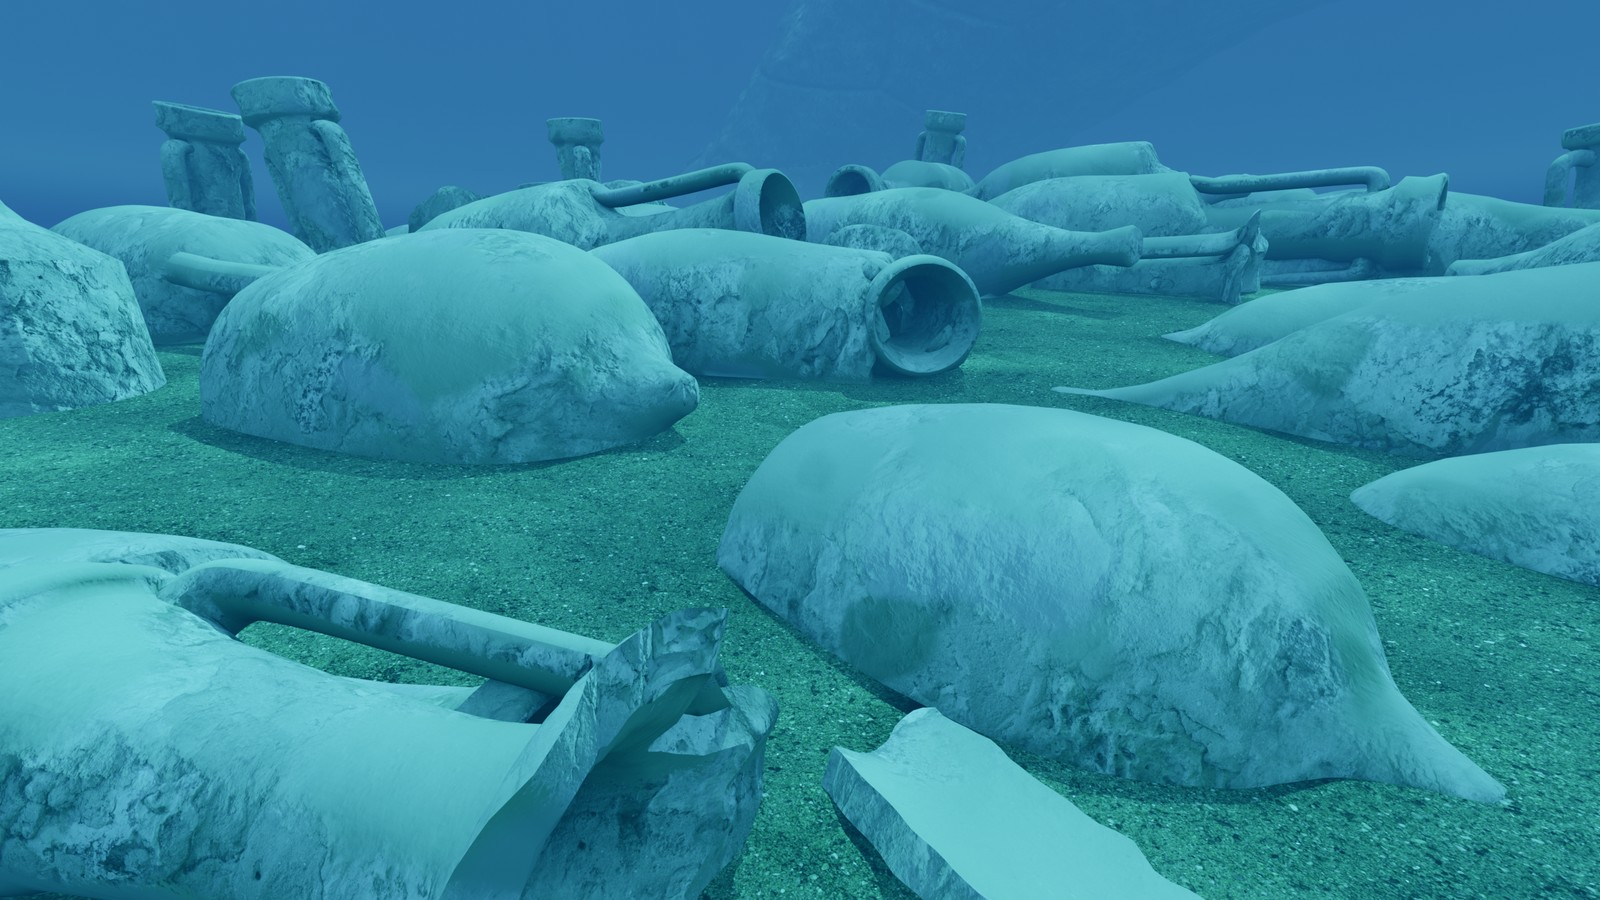
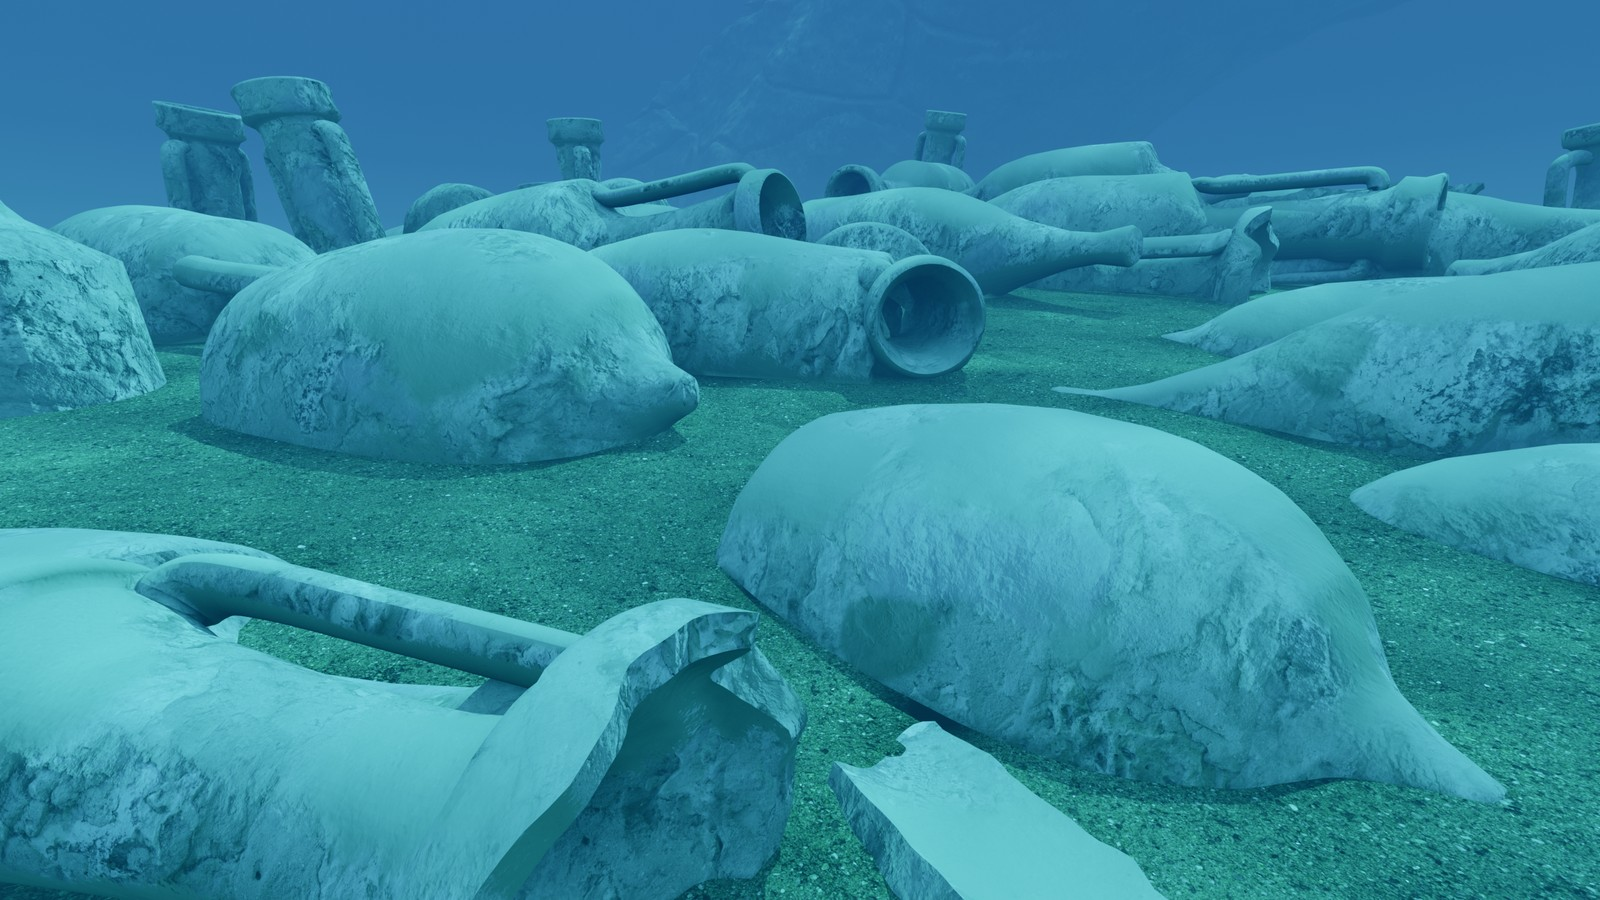
Koy A7: bağımsız gözden geçirmenin 11 bulgusu düzeltildi
Işık alanı dibine yaklaşınca sönüyordu (dibin altındaki düzlem sıfırdı; 12,6 m'de
ışığın %15'i): düzlemler son aydınlık değeri alıyor, bakış yolu geçişi tarlanın
zeminini yutmuyor. Kulp uçları duvarın içinde, incelen ve kapalı; boyun parçasının
kırığı kulp ayaklarının altında; yarım gövde ve parçacıklar en alçak köşelerine
göre kumda. Kemerde oluk düzlem başına (basamak yok), dar bant payı eğime ve
kabartmaya göre, bloklar ayaklara yakın. Canlı lekeler kabukta. Ortam kararmasında
sıra bozulursa o ağ kapalı. README'de ölçülen uçlar, bayat belge satırları güncel.
Galeri ve README görselleri yeniden. Ayrıntı docs/koy/DURUM.md A7.

Claude-Session: https://claude.ai/code/session_018YpimTqWS6UB1M8B7A4dW9

diff --git a/src/scenes/koy/koy_amphora.cpp b/src/scenes/koy/koy_amphora.cpp
@@ -41,10 +41,12 @@ const Row kL2[] = {{0.0f, 0.00f, -1}, {0.5f, 2.16f, -1}, {3.7f, 3.90f, -1}, {6.0
                    {84.9f, 7.96f, 6.69f}, {85.5f, 7.28f, 7.28f}};
 // handle centre lines (radius, height) in cm: inside the neck under the rim, out, down the free part (between the
 // handle's outer and inner edges of §2.5), into the shoulder
-const float2 h1B[] = {{5.0f, 107.8f}, {7.5f, 108.2f}, {9.6f, 107.0f}, {10.05f, 103.0f}, {10.1f, 95.0f}, {10.1f, 87.0f}, {10.2f, 81.0f}, {10.9f, 77.6f}, {11.4f, 75.4f}};
-const float2 h1A[] = {{4.8f, 91.5f}, {7.0f, 92.3f}, {8.9f, 91.2f}, {9.35f, 87.5f}, {9.3f, 78.0f}, {9.4f, 68.0f}, {9.6f, 62.5f}, {10.6f, 60.0f}, {11.4f, 59.0f}};
-const float2 h24[] = {{4.5f, 90.0f}, {7.5f, 90.6f}, {9.9f, 89.0f}, {10.2f, 86.0f}, {9.7f, 81.0f}, {9.3f, 75.5f}, {9.4f, 72.5f}, {9.9f, 70.6f}, {10.0f, 69.9f}};
-const float2 hL2[] = {{4.6f, 78.0f}, {8.0f, 79.0f}, {10.8f, 78.0f}, {11.4f, 75.0f}, {11.4f, 68.0f}, {11.4f, 61.5f}, {12.0f, 58.5f}, {12.2f, 56.6f}};
+// (both ends inside the wall, between the cavity's and the outside's radius at that height: the tapered, capped ends
+// are buried; first written with the lower ends 0.8-1.5 cm outside the shoulder and two upper ends in the mouth's cavity)
+const float2 h1B[] = {{5.9f, 107.8f}, {7.5f, 108.2f}, {9.6f, 107.0f}, {10.05f, 103.0f}, {10.1f, 95.0f}, {10.1f, 87.0f}, {10.2f, 81.0f}, {10.9f, 77.6f}, {10.9f, 75.0f}};
+const float2 h1A[] = {{6.3f, 91.5f}, {7.4f, 92.3f}, {8.9f, 91.2f}, {9.35f, 87.5f}, {9.3f, 78.0f}, {9.4f, 68.0f}, {9.6f, 62.5f}, {10.6f, 60.0f}, {11.0f, 58.8f}};
+const float2 h24[] = {{5.8f, 90.0f}, {7.6f, 90.6f}, {9.9f, 89.0f}, {10.2f, 86.0f}, {9.7f, 81.0f}, {9.3f, 75.5f}, {9.4f, 72.5f}, {9.5f, 70.8f}, {8.6f, 69.6f}};
+const float2 hL2[] = {{4.8f, 78.0f}, {8.0f, 79.0f}, {10.8f, 78.0f}, {11.4f, 75.0f}, {11.4f, 68.0f}, {11.4f, 61.5f}, {11.6f, 58.4f}, {10.3f, 56.3f}};
 
 template <size_t N, size_t H>
 KoyAmphoraType makeType(const char* name, const Row (&rows)[N], const float2 (&hp)[H], float hr, float ht, bool dbl, float fill) {
@@ -115,7 +117,7 @@ void lathe(KMeshCPU& m, const std::vector<float2>& prof, int S, bool facingAxis,
 int koyAmphoraTypes() { return int(sizeof(kTypes) / sizeof(kTypes[0])); }
 const KoyAmphoraType& koyAmphoraType(int k) { return kTypes[std::min(std::max(k, 0), koyAmphoraTypes() - 1)]; }
 
-KMeshCPU koyBuildAmphora(const KoyAmphoraType& t, int segments, unsigned int material, unsigned int id) {
+KMeshCPU koyBuildAmphora(const KoyAmphoraType& t, int segments, unsigned int material, unsigned int id, bool handles) {
     KMeshCPU m;
     m.name = t.name;
     m.material = material;
@@ -151,6 +153,7 @@ KMeshCPU koyBuildAmphora(const KoyAmphoraType& t, int segments, unsigned int mat
     }
     // two handles: a section swept along the centre line (Catmull-Rom between its points), elliptic (radial x
     // tangential), or two round rods side by side for the bifid Dressel 2-4 handle; their ends sink into the jar
+    if (!handles) return m;
     const int HC = 12;
     auto curve = [&](float u) {   // u in 0..1 along the centre line
         const int n = int(t.handle.size());
@@ -172,15 +175,18 @@ KMeshCPU koyBuildAmphora(const KoyAmphoraType& t, int segments, unsigned int mat
             const float halfR = 0.5f * t.handleR, halfT = t.doubleRod ? 0.5f * t.handleR : 0.5f * t.handleT;
             const float shift = t.doubleRod ? (rod == 0 ? -1.0f : 1.0f) * (0.5f * t.handleT - halfT) : 0.0f;
             const unsigned base = unsigned(m.pos.size());
+            const unsigned firstRing = unsigned(m.pos.size());
             for (int i = 0; i <= HS; ++i) {
                 const float u = float(i) / HS;
+                // the section narrows to 65 % towards both ends (they merge into the wall instead of standing out of it)
+                const float taper = 1.0f - 0.35f * kn::smoothstep(0.85f, 1.0f, u) - 0.35f * (1.0f - kn::smoothstep(0.0f, 0.15f, u));
                 const float2 p = curve(u), q = curve(std::min(u + 0.01f, 1.0f)), o = curve(std::max(u - 0.01f, 0.0f));
                 const float dr = q.x - o.x, dh = q.y - o.y, L = std::max(std::hypot(dr, dh), 1e-6f);
                 const float3 T = make_float3(out.x * dr / L, dh / L, out.z * dr / L);   // along the handle
                 const float3 Nn = normalize(cross(tan, T));                                 // radial-ish, in the profile plane
                 for (int c = 0; c <= HC; ++c) {
                     const float ph = twoPi * float(c) / float(HC);
-                    const float3 dir = Nn * (halfR * std::cos(ph)) + tan * (halfT * std::sin(ph) + shift);
+                    const float3 dir = Nn * (taper * halfR * std::cos(ph)) + tan * (taper * halfT * std::sin(ph) + shift);
                     const float3 nrm = normalize(Nn * (std::cos(ph) / halfR) + tan * (std::sin(ph) / halfT));
                     m.pos.push_back(make_float3(out.x * p.x, p.y, out.z * p.x) + dir);
                     m.nrm.push_back(nrm);
@@ -193,6 +199,19 @@ KMeshCPU koyBuildAmphora(const KoyAmphoraType& t, int segments, unsigned int mat
                     m.idx.push_back(make_uint3(a, cc, b));
                     m.idx.push_back(make_uint3(b, cc, d));
                 }
+            // caps on both ends: no open tube ever shows
+            for (int end = 0; end < 2; ++end) {
+                const unsigned ring = firstRing + unsigned(end == 0 ? 0 : HS * (HC + 1));
+                float3 ctr = make_float3(0.0f, 0.0f, 0.0f);
+                for (int c = 0; c < HC; ++c) ctr = ctr + m.pos[ring + unsigned(c)];
+                ctr = ctr * (1.0f / float(HC));
+                const float3 along = m.pos[ring + unsigned(end == 0 ? HC + 1 : 0) + 0u] - m.pos[ring];   // towards the tube's inside
+                const unsigned ci = unsigned(m.pos.size());
+                m.pos.push_back(ctr);
+                m.nrm.push_back(normalize(end == 0 ? -along : along));
+                m.uv.push_back(make_float2(0.0f, end == 0 ? 0.0f : 0.6f));
+                for (int c = 0; c < HC; ++c) m.idx.push_back(make_uint3(ci, ring + unsigned(c), ring + unsigned(c + 1)));
+            }
         }
     }
     return m;
@@ -256,9 +275,9 @@ std::vector<KoyAmphoraPiece> koyAmphoraPieces() {
     v.push_back({0, 1, 0.0f, 0.76f, 0.0f, twoPi, 0.05f, 12u});    // body broken through the shoulder
     v.push_back({1, 1, 0.0f, 0.66f, 0.0f, twoPi, 0.04f, 13u});    // a Dressel 1A body
     v.push_back({2, 1, 0.0f, 0.62f, 0.0f, twoPi, 0.04f, 14u});    // a Lamboglia 2 body
-    v.push_back({0, 2, sh - 0.04f, top, 0.0f, twoPi, 0.03f, 21u});   // a Dressel 1B neck with its handles
-    v.push_back({1, 2, 0.585f, 0.978f, 0.0f, twoPi, 0.03f, 22u});    // a Dressel 1A neck
-    v.push_back({0, 3, 0.18f, 0.74f, -0.15f, pi + 0.2f, 0.05f, 31u});    // half bodies
+    v.push_back({0, 2, sh - 0.09f, top, 0.0f, twoPi, 0.03f, 21u});   // a Dressel 1B neck with its handles (broken below their feet)
+    v.push_back({1, 2, 0.55f, 0.978f, 0.0f, twoPi, 0.03f, 22u});     // a Dressel 1A neck
+    v.push_back({0, 3, 0.24f, 0.74f, -0.15f, pi + 0.2f, 0.05f, 31u});    // half bodies (above the solid toe: the break shows the wall)
     v.push_back({0, 3, 0.26f, 0.70f, 0.3f, pi + 0.1f, 0.06f, 32u});
     v.push_back({0, 4, 0.40f, 0.62f, 0.0f, 0.9f, 0.03f, 41u});   // sherds: hand-sized pieces of the wall
     v.push_back({0, 4, 0.30f, 0.46f, 1.0f, 1.65f, 0.025f, 42u});
@@ -409,8 +428,8 @@ KMeshCPU koyBuildPiece(const KoyAmphoraPiece& pc, int segments, unsigned int mat
     // a neck keeps its handles: the whole jar's, cut to the piece's heights by taking only those inside it
     if (pc.kind == 2) {
         KMeshCPU whole = koyBuildAmphora(t, segments, material, id);
-        // the handles are the whole jar's last vertices: everything after its lathe, rim, cavity and fill
-        const size_t handleStart = whole.pos.size() - size_t((t.doubleRod ? 4 : 2) * 41 * 13);
+        // the handles are the whole jar's last vertices: everything after the body built without them
+        const size_t handleStart = koyBuildAmphora(t, segments, material, id, false).pos.size();
         const unsigned off = unsigned(m.pos.size());
         for (size_t v = handleStart; v < whole.pos.size(); ++v) {
             m.pos.push_back(whole.pos[v]);
@@ -432,6 +451,15 @@ KMeshCPU koyBuildPiece(const KoyAmphoraPiece& pc, int segments, unsigned int mat
 std::vector<KoyAmphoraPlacement> koyPlaceAmphorae(const Config& cfg, const std::function<float(float, float)>& floorY) {
     std::vector<KoyAmphoraPlacement> out;
     const std::vector<KoyAmphoraPiece> pieces = koyAmphoraPieces();
+    // the shells and sherds are placed by their own lowest point (their mesh's vertices): their edges touch the sand
+    std::vector<std::vector<float3>> verts(pieces.size());
+    for (size_t i = 0; i < pieces.size(); ++i)
+        if (pieces[i].kind >= 3) verts[i] = koyBuildPiece(pieces[i], 48, 0, 0).pos;
+    auto lowest = [&](int piece, float3 rx, float3 ax, float3 rz) {   // the lowest vertex's height over the piece's origin
+        float lo = 1e9f;
+        for (const float3& v : verts[size_t(piece)]) lo = std::min(lo, rx.y * v.x + ax.y * v.y + rz.y * v.z);
+        return lo;
+    };
     const int n = cfg.i("amfora.count", 96), nSherds = cfg.i("amfora.sherds", 40);
     const float3 c = cfg.v3("amfora.centre", make_float3(0.0f, 0.0f, 0.0f));
     const float ship = cfg.f("amfora.ship_deg", -75.0f) * 3.14159265f / 180.0f;
@@ -529,7 +557,9 @@ std::vector<KoyAmphoraPlacement> koyPlaceAmphorae(const Config& cfg, const std::
             centre = make_float3(px, fy - shoulder * (0.75f + 0.25f * uni(rng)) + ax.y * mid, pz);
             burial = 0.9f;
         } else if (PC.kind == 3) {
-            centre = make_float3(px, fy + rmax * (0.25f - 0.5f * burial), pz);   // a shell: its edges in the sand
+            // a shell: its lowest point (an edge, or its back) a few cm in the sand
+            const float sink = 0.01f + 0.04f * burial;
+            centre = make_float3(px, fy - sink - lowest(piece, rx, ax, rz) + ax.y * mid, pz);
         } else {
             centre = make_float3(px, fy + rmax * (1.0f - 2.0f * burial) * 0.98f, pz);
         }
@@ -560,7 +590,8 @@ std::vector<KoyAmphoraPlacement> koyPlaceAmphorae(const Config& cfg, const std::
         const float fy = floorY(px, pz);
         // the sherd's middle point sits at the floor: its offset from the axis is r along the rolled normal
         const float3 outward = rx * std::cos(am) + rz * std::sin(am);
-        const float3 tip = make_float3(px, fy + 0.01f - 0.03f * uni(rng), pz) - ax * mid - outward * r;
+        float3 tip = make_float3(px, 0.0f, pz) - ax * mid - outward * r;
+        tip.y = fy - (0.005f + 0.02f * uni(rng)) - lowest(piece, rx, ax, rz);   // its lowest point just in the sand
         const Cap me{make_float3(px, fy, pz), make_float3(px, fy + 0.01f, pz), 0.10f};
         bool clash = false;
         for (const Cap& o : caps)

diff --git a/src/scenes/koy/koy_arch.cpp b/src/scenes/koy/koy_arch.cpp
@@ -97,7 +97,8 @@ static float baseSdf(const KoyArchShape& a, float x, float y, float z) {
     // fallen blocks: rough spheres about the feet, half sunk
     for (int b = 0; b < a.blocks; ++b) {
         const float hx = kn::hash01(b, int(a.seed), 21), hz = kn::hash01(b, int(a.seed), 22), hr = kn::hash01(b, int(a.seed), 23);
-        const float bx = (hx - 0.5f) * 2.0f * (w + 6.0f), bz = (hz - 0.5f) * 2.0f * (a.footD + 6.0f) * (hz < 0.5f ? 1.0f : 0.7f);
+        // about the feet only (behind the arch the floor falls away to the deep: a block there would hang in the water)
+        const float bx = (hx - 0.5f) * 2.0f * (w + 4.0f), bz = (hz - 0.5f) * 2.0f * (a.footD + 2.5f);
         if (std::fabs(bz) < a.footD + 0.5f && std::fabs(bx) < w - a.footR) continue;   // not under the span itself
         const float br = 0.7f + 1.6f * hr;
         const float dx = x - bx, dy = y - 0.25f * br, dz = z - bz;
@@ -136,8 +137,9 @@ float KoyArchShape::sdf(float3 world) const {
     const float hl = kn::hash01(layer, int(seed), 11);
     const float step = hl > 0.62f ? bedStep * (hl - 0.62f) / 0.38f * 2.0f : 0.0f;   // a protruding ledge, some beds only
     d -= patch * step * (1.0f - kn::smoothstep(0.75f, 1.0f, fr)) * kn::smoothstep(0.0f, 0.15f, fr);
-    if (kn::hash01(layer, int(seed), 12) > 0.55f)   // a groove at this bedding plane
-        d += patch * 0.06f * (1.0f - kn::smoothstep(0.0f, 0.07f, std::min(fr, 1.0f - fr)));
+    // a groove along some bedding planes: chosen per plane (the same on both of its sides: no step in the field)
+    if (kn::hash01(layer, int(seed), 12) > 0.55f) d += patch * 0.06f * (1.0f - kn::smoothstep(0.0f, 0.07f, fr));            // the plane below
+    if (kn::hash01(layer + 1, int(seed), 12) > 0.55f) d += patch * 0.06f * (1.0f - kn::smoothstep(0.0f, 0.07f, 1.0f - fr));  // the plane above
     // mid relief and eroded creases
     d += bump * kn::fbm3(x * 0.45f + o, y * 0.5f, z * 0.45f, 6);
     d -= 0.4f * bump * (kn::ridged3(x * 0.3f, y * 0.3f + o, z * 0.3f, 4) - 0.5f);
@@ -203,7 +205,9 @@ KMeshCPU koyBuildArch(const KoyArchShape& a, float cell, unsigned int material, 
             for (size_t i = 0; i < cx; ++i)
                 fc[(size_t(k) * cy + j) * cx + i] = a.sdf(world(lx0 + i * C8 * cell, ly0 + j * C8 * cell, lz0 + k * C8 * cell));
     });
-    const float safe = 1.6f * float(C8) * cell * 1.7320508f;   // the coarse cell's diagonal, with room
+    // the coarse cell's diagonal times the field's steepest slope (the warp stretches it ~1.7x, the blocks' y scale more:
+    // ~2.2), plus the relief's own reach (~1.1 m): only beyond that is the sign certain
+    const float safe = 2.2f * float(C8) * cell * 1.7320508f + 1.1f;
     std::vector<float> f(px * py * pz);
     std::atomic<size_t> evaluated{0};
     kn::parallelFor(int(pz), [&](int k) {

diff --git a/src/scenes/koy/koy_renderer.cpp b/src/scenes/koy/koy_renderer.cpp
@@ -501,12 +501,12 @@ void KoyRenderer::bakeAO() {
         if (first < 0) continue;
         float* ao = devAlloc<float>(m.pos.size() * size_t(count));
         worldBuffers_.push_back(ao);
-        for (int c = 0; c < count; ++c) {
-            if (instancesCPU_[size_t(first + c)].mesh != int(k)) {
-                std::printf("koy: %s orneklerinin sirasi bozuk, golgeleme yalniz ilk ornege\n", m.name.c_str());
-                count = 1;
-                break;
-            }
+        bool ordered = true;
+        for (int c = 0; c < count; ++c)
+            if (instancesCPU_[size_t(first + c)].mesh != int(k)) ordered = false;
+        if (!ordered) {   // the device reads instance i at (i - aoFirst): with gaps it would read past the buffer
+            std::printf("koy: %s ornekleri ardisik degil: ortam kararmasi bu ag icin kapali\n", m.name.c_str());
+            continue;
         }
         params_.bakeMesh = int(k);
         for (int c = 0; c < count; ++c) {

diff --git a/src/scenes/koy/koy_optics.cpp b/src/scenes/koy/koy_optics.cpp
@@ -504,6 +504,12 @@ void KoyOptics::lightField() {
         }
         const double dOmega = 2.0 * 3.14159265358979 * (2.0 / NM);
         for (size_t k = 0; k < acc.size(); ++k) L[k] = float(acc[k] / dOmega);
+        // the planes below the floor: no photon crosses them, so they stayed zero and a lookup near the floor blended
+        // towards it (at the floor itself 15 % of the light; found by the independent review, 2026-10-04): they take the
+        // last lit plane's value (a field read a little below its floor stays near right)
+        const int jLast = std::min(NZ - 1, int(std::floor(H / dz + 1e-4f)));
+        for (int j = jLast + 1; j < NZ; ++j)
+            for (int m = 0; m < NM; ++m) L[size_t(j) * NM + m] = L[size_t(jLast) * NM + m];
     });
     msField = nowMs() - t0;
 }

diff --git a/src/scenes/koy/koy_amphora.h b/src/scenes/koy/koy_amphora.h
@@ -24,7 +24,7 @@ int koyAmphoraTypes();
 
 // the jar's mesh in its own frame: the axis +y, the toe's tip at the origin. UVs: u around (metres of circumference,
 // a whole number of texture tiles), v along the profile (metres).
-KMeshCPU koyBuildAmphora(const KoyAmphoraType& t, int segments, unsigned int material, unsigned int id);
+KMeshCPU koyBuildAmphora(const KoyAmphoraType& t, int segments, unsigned int material, unsigned int id, bool handles = true);
 
 // A whole jar or what is left of it: a stretch of its wall between two heights and two angles, the boundaries jagged
 // where it broke (a whole jar: the full height, all round). The break shows the wall's thickness between the outside and

diff --git a/README.md b/README.md
@@ -229,9 +229,10 @@ a shelf at 16 m, a natural limestone arch against the light, the deep blue throu
 away. Sharpness and steadiness come first; the light is physical.
 
 - **Sharpness without temporal tricks:** every pixel is drawn with the same fixed sub-pixel samples every frame (4,
-  rotated grid; no jitter, no history), edge pixels get up to 32 more, a Blackman-Harris filter a little wider than a
-  pixel joins them. Measured against a converged reference along camera paths (`tools/kararlilik.py`), the shimmer is
-  3 to 10 times below the TAA of scene 2.
+  rotated grid; no jitter, no history), edge pixels get up to 32 in all (16 by default), a Blackman-Harris filter a
+  little wider than a pixel joins them. Measured against a converged reference along four camera paths
+  (`tools/kararlilik.py`), the shimmer is 3 to 13 times below the TAA of scene 2; close over the 16K sand only 1.2
+  times (the target was twice).
 - **Spectral water, baked:** absorption and scattering every 5 nm from published measurements (Pope and Fry, a Jerlov
   type, Fournier-Forand), the sun and sky spectra, the eye's curves, all baked into tables by the light's path length.
   The water column's diffuse light is a Monte Carlo light field, built for three floor depths: over the wreck's bright
@@ -239,16 +240,18 @@ away. Sharpness and steadiness come first; the light is physical.
 - **Caustics without noise (beams):** every cell of the FFT surface (a million) is a beam of light; at each of 28 depth
   slices the beam's flux spreads over the two triangles its corners span, every texel receiving exactly its share of
   their area (Green's theorem, row by row). Nothing is counted, so nothing boils: against the old counted rays the
-  caustics' own flicker fell 13 to 15 times (16 times the rays had still left four times the beams' noise). 7 ms.
+  caustics' own flicker fell 13 to 15 times at 7 to 12 m, 4.7 times at 20 m where the slices are half resolution (16
+  times the rays had still left four times the beams' noise). About 7 ms.
 - **The amphorae:** four types turned from the profiles of the University of Southampton's drawings as vectorised by
   ArchAIDE (Dressel 1B, 1A, 2-4, Lamboglia 2; outside, the mouth's inside, the handles; CC BY 4.0), and broken pieces of
   them: bodies whose necks snapped (filled with sediment), necks with their handles, halves, sherds. 8K clay under
   patches of concretion, more in recesses, less where the sand scours; a felt of sediment on everything that looks up.
 - **The arch:** a distance field (a tube of rock of varying thickness bent over a half-ellipse, limestone beds, blocks
-  split along joints, eroded ridges, fallen blocks), meshed by surface nets at 7 cm in 2.7 s, a 16K rock scan laid over
-  it in world space.
+  split along joints, eroded ridges, fallen blocks), meshed by surface nets at 7 cm (770 thousand triangles, 4.4 s), a
+  16K rock scan laid over it in world space.
 
 Open: the arch still reads a little like a shell from afar; the light shafts are faint unless you look towards the sun;
+close over the sand the steadiness target is missed and the frame rate drops to 33 fps (8 samples would fix the first);
 steadiness was measured on four camera paths, the look judged by eye against real wreck photographs. Everything in
 `docs/koy/DURUM.md`.
 
